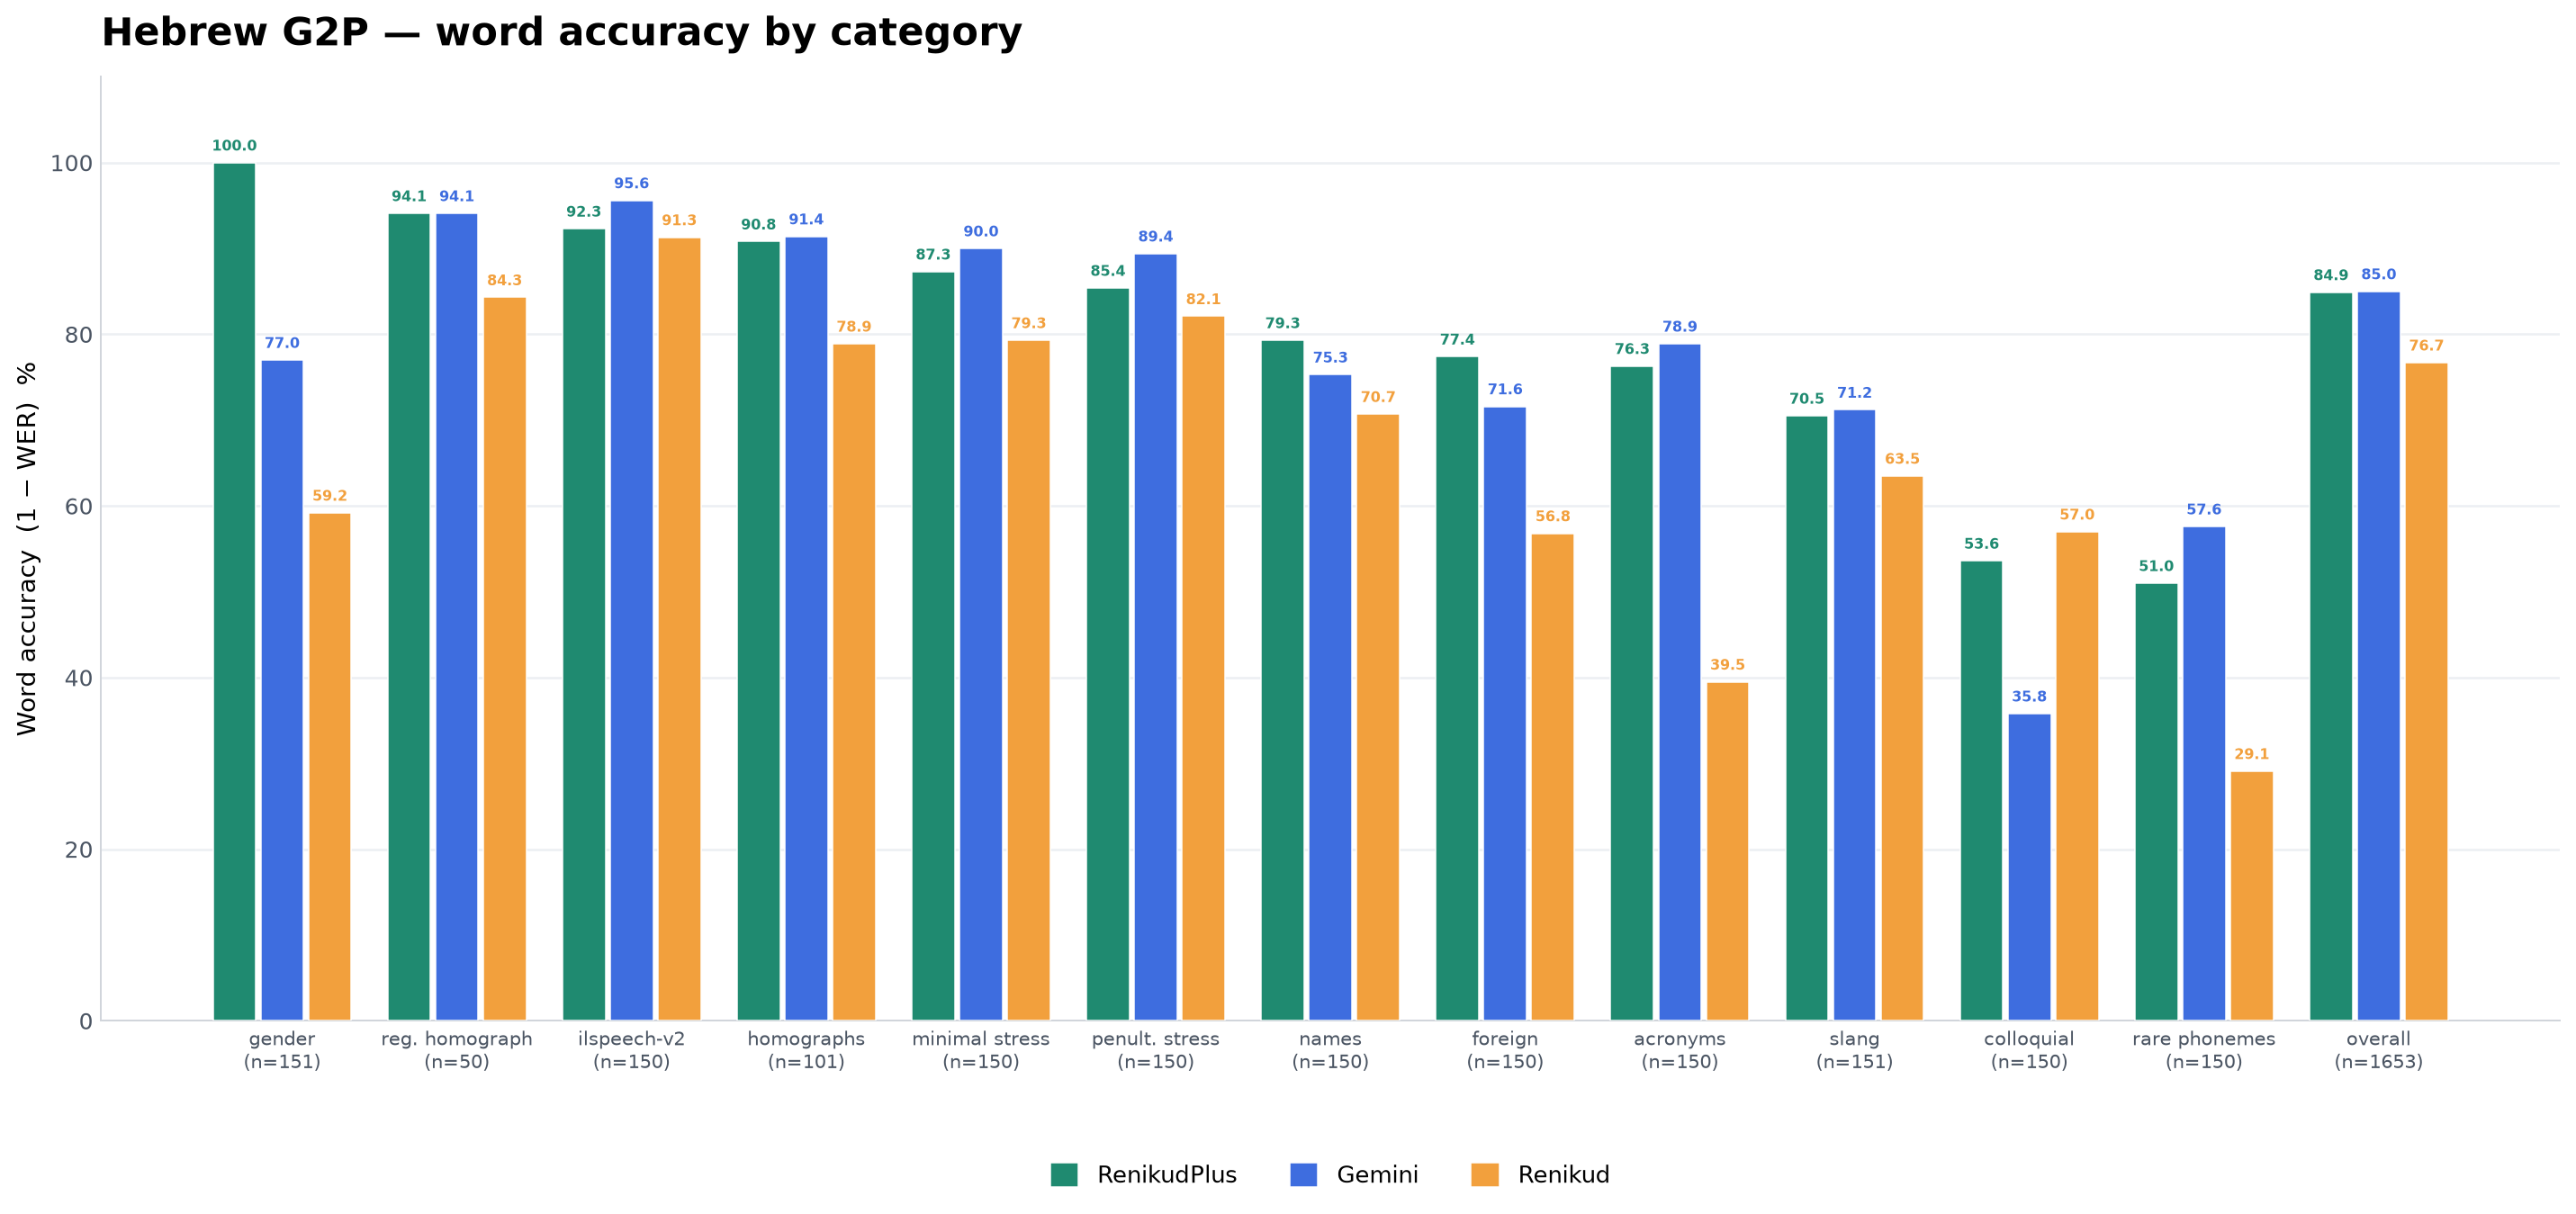
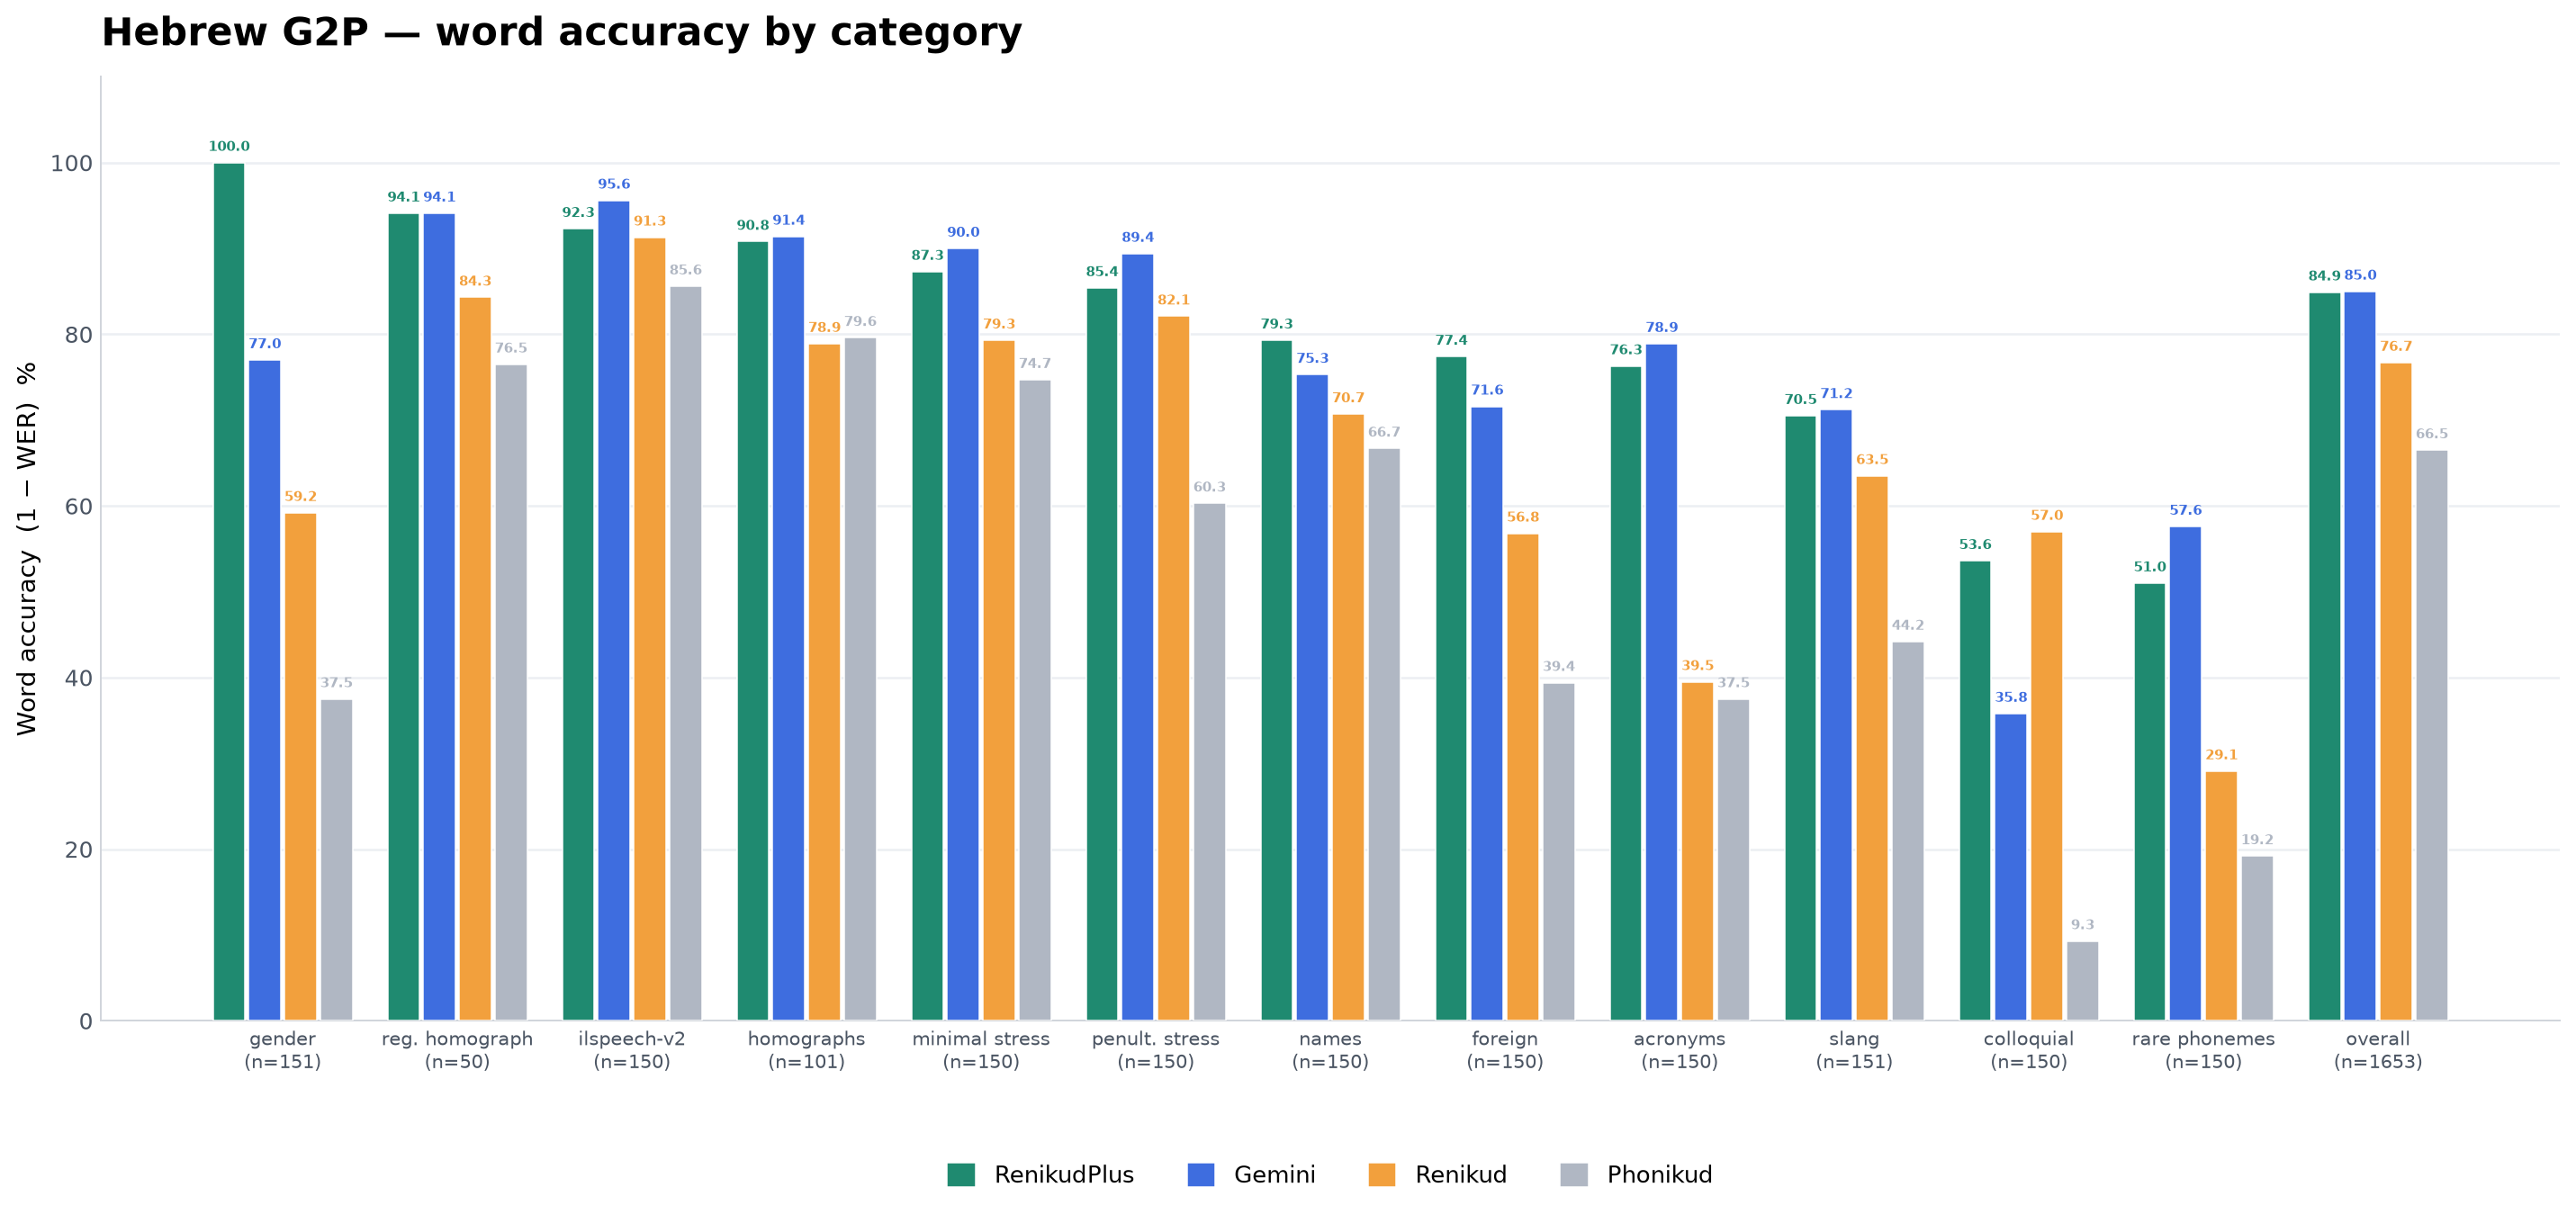
Update README with installation instructions and replace bar plot comparison image

Changed region(s): [[0.0933, 0.1245, 0.964, 0.8718], [0.3732, 0.934, 0.653, 0.9963]]

diff --git a/README.md b/README.md
@@ -13,7 +13,7 @@ This repository contains only the code required for ONNX inference. It has no
 training pipeline, checkpoint files, or PyTorch dependency.
 
 ```console
-pip install .
+uv sync
 hf download notmax123/RenikudPlus model.onnx --local-dir .
 ```
 